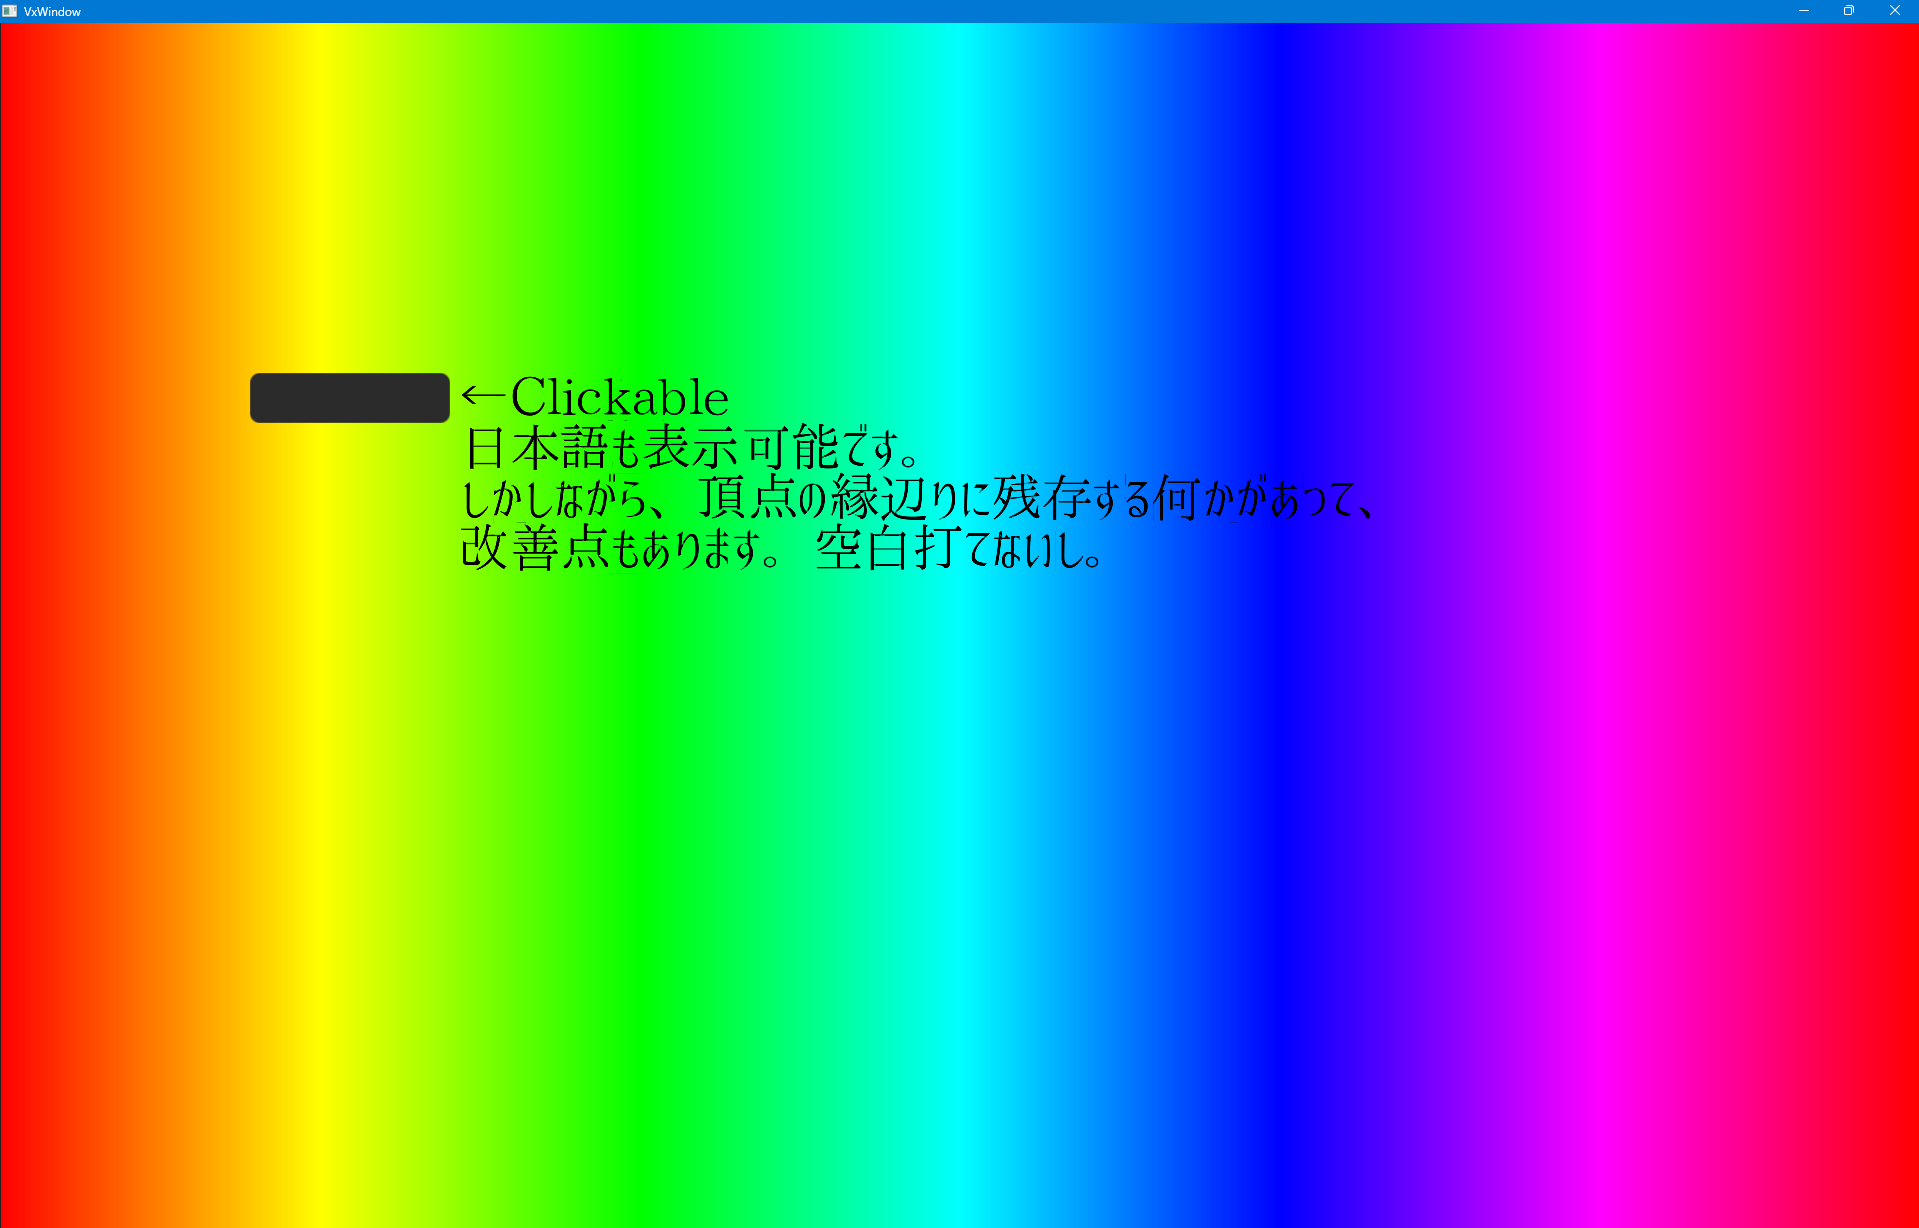
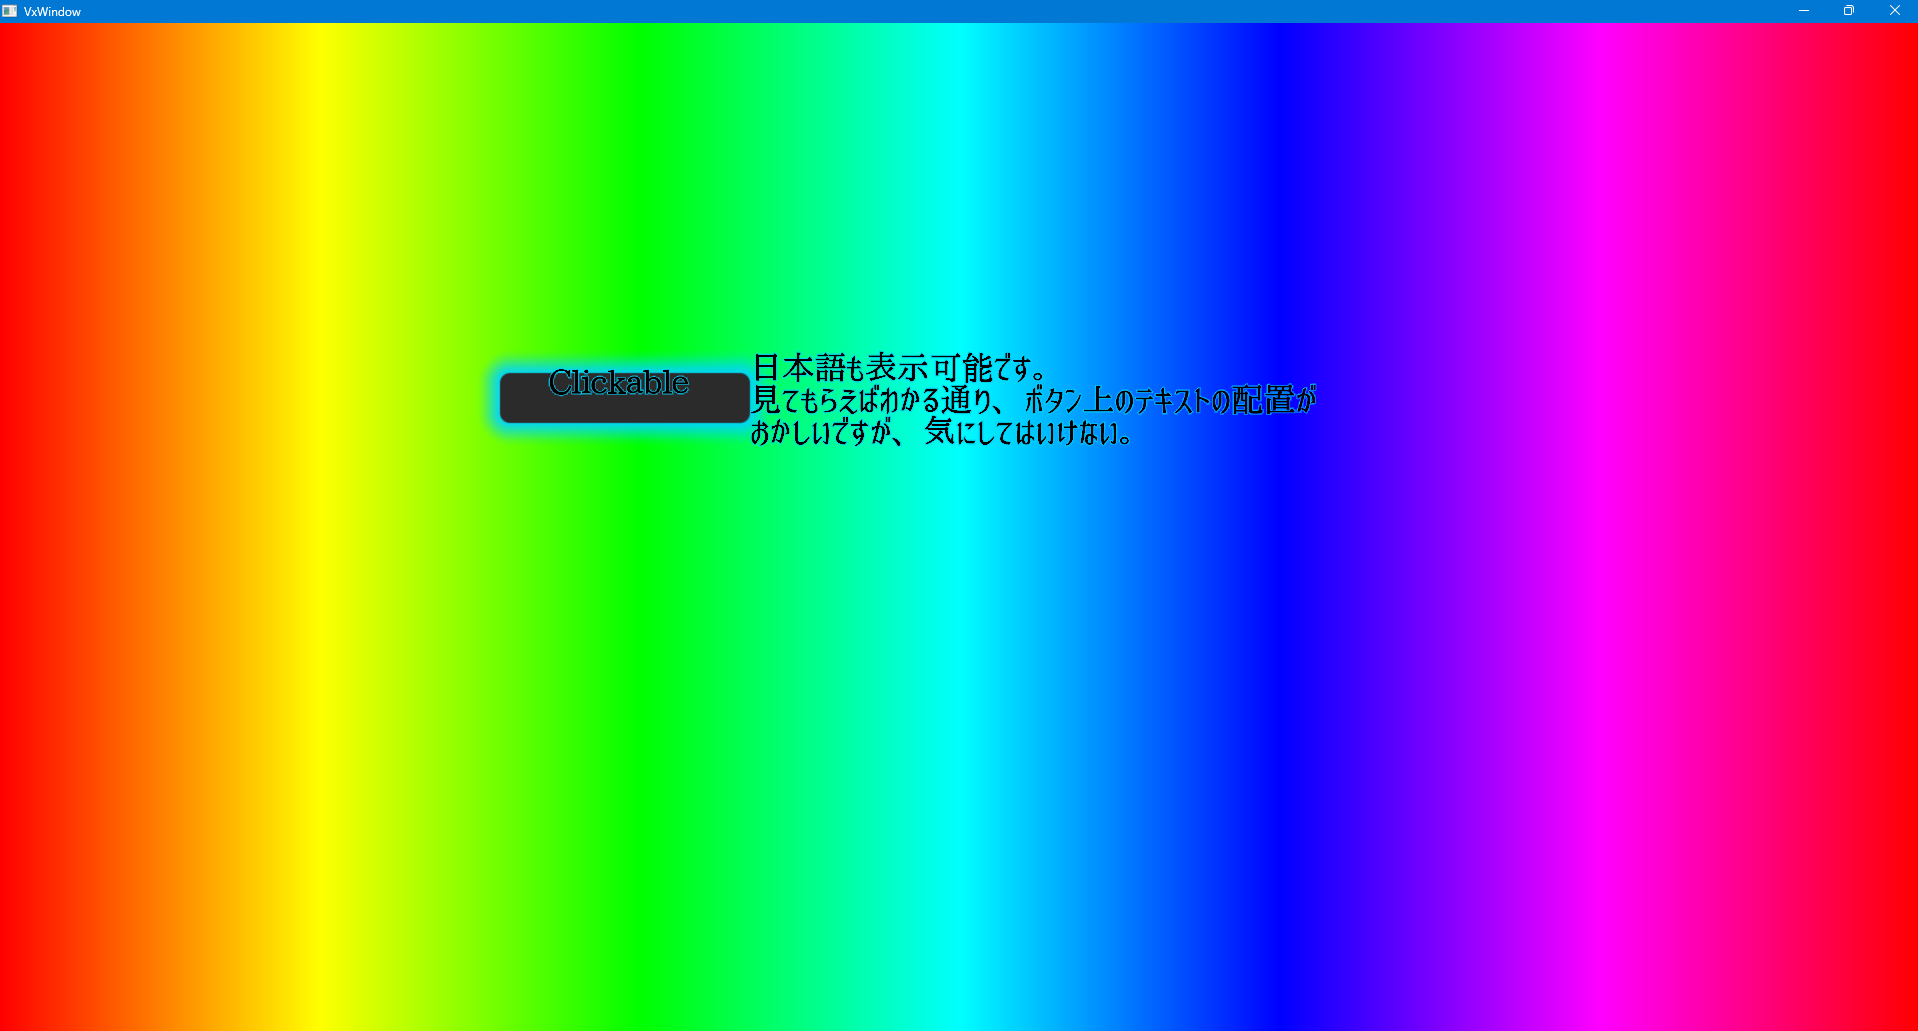
2026-06-21: latest QD

Changed region(s): [[0.123, 0.2793, 0.7075, 0.4656], [0.0, 0.0, 1.0, 0.031]]

diff --git a/qd-varallax/src/develop_examples/main_window.rs b/qd-varallax/src/develop_examples/main_window.rs
@@ -47,34 +47,34 @@ impl VxWindow for MainWindow {
 
 		let mut button = VxButtonWidget::new(
 			VxRectR::new(VxRect::from_i32(0, 0, 250, 50), 10.0),
-			"本人確認できず",
-			VxButtonStyle::new(VxThemeMode::DarkMode, VxFont::from_family_str("kokumr", 128.0)),
+			"Clickable",
+			VxButtonStyle::new(VxThemeMode::DarkMode, VxFont::from_family_str("kokumr", 32.0)),
 			None
 		);
 		button.set_pos(VxVec2::from_i32(500, 350));
 		self.add_widget(button);
 
-		let mut button = VxButtonWidget::new(
-			VxRectR::new(VxRect::from_i32(0, 0, 250, 50), 10.0),
-			"鬱激ぐおｗ",
-			VxButtonStyle::new(VxThemeMode::DarkMode, VxFont::from_family_str("kokumr", 32.0)),
-			None
+		let mut text = VxTextWidget::new(
+			"日本語も表示可能です。\n見てもらえばわかる通り、ボタン上のテキストの配置が\nおかしいですが、気にしてはいけない。",
+			VxFont::from_family_str("kokumr", 32.0),
+			VxColor::from_hex(0x000000),
+			None,
 		);
-		button.set_pos(VxVec2::from_i32(500, 550));
-		self.add_widget(button);
+		text.set_pos(VxVec2::from_i32(750, 340));
+		self.add_widget(text);
 
-		// for i in 0..1920 {
-		// 	for j in 0..12 {
-		// 		let mut rect = VxRectWidget::new(
-		// 			VxRect::from_i32(0, 0, 1, 100),
-		// 			VxColor::from_hsv(i as f32 / 1920.0, 1.0, 1.0),
-		// 			None
-		// 		);
-		// 		rect.set_pos(VxVec2::from_i32(i, j * 100));
-		// 		rect.set_z_value(-1);
-		// 		self.add_widget(rect);
-		// 	}
-		// }
+		for i in 0..1920 {
+			for j in 0..12 {
+				let mut rect = VxRectWidget::new(
+					VxRect::from_i32(0, 0, 1, 100),
+					VxColor::from_hsv(i as f32 / 1920.0, 1.0, 1.0),
+					None
+				);
+				rect.set_pos(VxVec2::from_i32(i, j * 100));
+				rect.set_z_value(-1);
+				self.add_widget(rect);
+			}
+		}
 	}
 }
 

diff --git a/qd-varallax/src/painter/tessellate.rs b/qd-varallax/src/painter/tessellate.rs
@@ -99,13 +99,12 @@ pub fn tessellate_text(
 	outline_width: f32,
 	blur_radius: f32,
 ) -> ([VxTextVertex; 4], [u32; 6]) {
-	let margin = outline_width + blur_radius;
-	let margin_double = margin * 2.0;
-	let x = rect.x() - margin;
-	let y = rect.y() - margin;
-	let w = rect.width() + margin_double;
-	let h = rect.height() + margin_double;
+	let x = rect.x();
+	let y = rect.y();
+	let w = rect.width();
+	let h = rect.height();
 
+	// シェーダーでは何とかできなかったのでごまかし
 	if outline_width == 0.0 && blur_radius == 0.0 {
 		outline_color = color;
 	}
@@ -115,23 +114,23 @@ pub fn tessellate_text(
 			VxTextVertex::new(
 				[x, y, 0.0], color, uv.left_top().to_array(),
 				tex_index, outline_color, outline_width,
-				blur_radius, rect.size(), uv.center()
+				blur_radius,
 			),
 			VxTextVertex::new(
 				[x + w, y, 0.0], color, uv.right_top().to_array(),
 				tex_index, outline_color, outline_width,
-				blur_radius, rect.size(), uv.center()
+				blur_radius,
 			),
 			
 			VxTextVertex::new(
 				[x + w, y + h, 0.0], color, uv.right_bottom().to_array(),
 				tex_index, outline_color, outline_width,
-				blur_radius, rect.size(), uv.center()
+				blur_radius,
 			),
 			VxTextVertex::new(
 				[x, y + h, 0.0], color, uv.left_bottom().to_array(),
 				tex_index, outline_color, outline_width,
-				blur_radius, rect.size(), uv.center()
+				blur_radius,
 			),
 		],
 		[0, 1, 2, 2, 3, 0]

diff --git a/qd-varallax/src/types/vertex.rs b/qd-varallax/src/types/vertex.rs
@@ -88,12 +88,10 @@ pub struct VxTextVertex {
 	outline_color: [u8; 4],
 	outline_width: f32,
 	blur_radius: f32,
-	original_size: [f32; 2],
-	uv_center: [f32; 2],
 }
 
 impl VxTextVertex {
-	pub const ATTRS: [wgpu::VertexAttribute; 9] = wgpu::vertex_attr_array![
+	pub const ATTRS: [wgpu::VertexAttribute; 7] = wgpu::vertex_attr_array![
 		0 => Float32x3, // pos
 		1 => Unorm8x4, // color
 		2 => Float32x2, // texcoord
@@ -101,8 +99,6 @@ impl VxTextVertex {
 		4 => Unorm8x4, // outline_color
 		5 => Float32, // outline_width
 		6 => Float32, // blur_radius
-		7 => Float32x2, // original_size
-		8 => Float32x2,
 	];
 	pub const VERTEXBUFFERLAYOUT: wgpu::VertexBufferLayout<'static> = wgpu::VertexBufferLayout {
 		array_stride: std::mem::size_of::<Self>() as wgpu::BufferAddress,
@@ -119,8 +115,6 @@ impl VxTextVertex {
 		outline_color: VxColor,
 		outline_width: f32,
 		blur_radius: f32,
-		original_size: VxSize,
-		uv_center: VxVec2,
 	) -> Self {
 		Self {
 			position,
@@ -130,8 +124,6 @@ impl VxTextVertex {
 			outline_color: outline_color.to_array_with_alpha_u8(),
 			outline_width,
 			blur_radius,
-			original_size: original_size.to_array(),
-			uv_center: uv_center.to_array(),
 		}
 	}
 

diff --git a/qd-varallax/src/core/systems.rs b/qd-varallax/src/core/systems.rs
@@ -442,8 +442,6 @@ impl VxFontSystem {
 			);
 			let line_height = vertical_metrics.create_line_height();
 			let scale = font_size / Self::MSDF_SIZE;
-			let margin = (cmd.outline_width + cmd.blur_radius) * 2.0;
-
 			let mut cursor = VxVec2::default();
 
 			for ch in cmd.text.chars() {
@@ -452,7 +450,7 @@ impl VxFontSystem {
 				if ch == '\n' {
 					cursor.set_x(0.0);
 					cursor.set_y(
-						cursor.y() + (line_height * scale) + margin
+						cursor.y() + (line_height * scale)
 					);
 					continue;
 				}
@@ -483,7 +481,7 @@ impl VxFontSystem {
 				all_array.push(container);
 
 				cursor.set_x(
-					cursor.x() + (glyph_info.advance * scale) + margin
+					cursor.x() + (glyph_info.advance * scale)
 				);
 			}
 		}

diff --git a/qd-varallax/src/core/bvh.rs b/qd-varallax/src/core/bvh.rs
@@ -26,7 +26,7 @@ impl VxSpatialIndex {
 		self.tree = Bvh::from_leaves(Default::default(), &aabbs);
 	}
 
-	pub fn udpate_at(&mut self, id: VxWidgetId, aabb: Aabb) {
+	pub fn update_at(&mut self, id: VxWidgetId, aabb: Aabb) {
 		self.tree.insert_or_update_partially(aabb, id.id.index as u32, 0.0);
 	}
 

diff --git a/qd-varallax/src/core/scene.rs b/qd-varallax/src/core/scene.rs
@@ -140,7 +140,7 @@ impl VxScene {
 			if widget.is_dirty() {
 				dirty = true;
 				widget.set_dirty(false);
-				self.spatial_index.udpate_at(
+				self.spatial_index.update_at(
 					VxWidgetId::new(id),
 					VxUtilConverter::rect_to_aabb(&widget.bounding_rect())
 				);

diff --git a/qd-varallax/src/widgets/text.rs b/qd-varallax/src/widgets/text.rs
@@ -40,8 +40,8 @@ impl VxWidget for VxTextWidget {
 			self.font,
 			self.color,
 			VxColor::from_hex(0x00D4FF),
-			0.0,
-			0.0
+			1.5,
+			1.5
 		);
 		painter.pop_transform();
 	}

diff --git a/README.md b/README.md
@@ -40,7 +40,7 @@ is a high-performance GUI library built with `Rust` and `WebGPU`.
 </picture>
 
 ### This screenshots demonstrates:
-* A rainbow background rendered using 1,920
+* A rainbow background rendered using 23,040(1,920x12)
 <a href = "./qd-varallax/src/widgets/vx_widgets.rs">VxRectWidgets.</a>
 * A placed <a href = "./qd-varallax/src/widgets/button.rs">VxButtonWidget</a>.
 * Text rendering rendered by a <a href = "./qd-varallax/src/widgets/text.rs">VxTextWidget</a>.
@@ -187,7 +187,7 @@ I’m thinking of switching the hit detection from a pure WideBVH implementation
 </picture>
 背景のゲーミングカラーは
 <a href = "./qd-varallax/src/widgets/vx_widgets.rs">VxRectWidget</a>
-を1920個使って描画しています。<br>また、
+を23,040(1920x12)個使って描画しています。<br>また、
 <a href = "./qd-varallax/src/widgets/button.rs">VxButtonWidget</a>
 を配置し、
 <a href = "./qd-varallax/src/widgets/text.rs">VxTextWidget</a>
